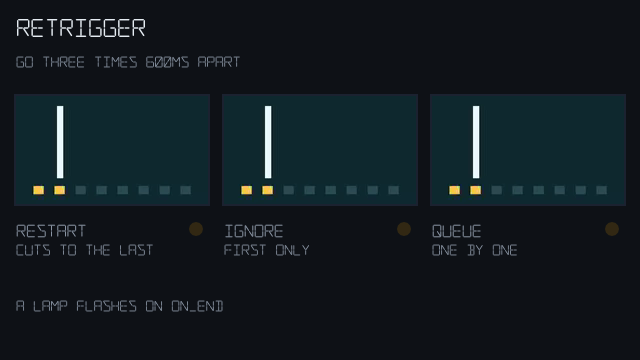
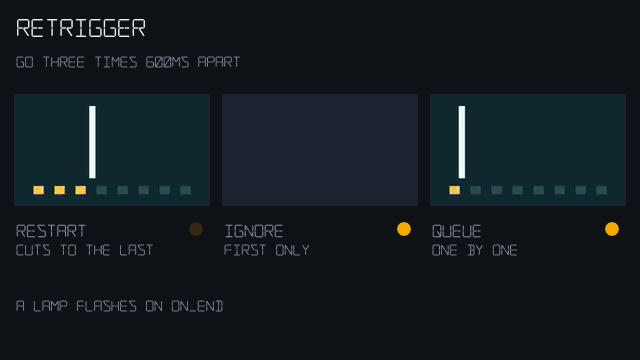
features: one clip, many plays
One clip playing on four layers at once, each started 300 ms after the
one before, so every layer shows its own point in the clip. Needs
cuelight main with a video frame per layer.

The retrigger example's thumbnail moves to 2.3 s, where its three
policies look different.

diff --git a/tools/feature_videos.py b/tools/feature_videos.py
@@ -40,7 +40,7 @@ ROOT = Path(__file__).resolve().parent.parent / "features/video"
 # Which examples use which clip; each example keeps its own copy, so a
 # folder plays on its own.
 USERS = {
-    "sweep": ["video_layer", "retrigger"],
+    "sweep": ["video_layer", "retrigger", "one_clip_many_plays"],
     "orbit": ["video_layer", "masked"],
     "pop_c": ["video_layer", "pick"],
     "pop_e": ["pick"],

diff --git a/features/README.md b/features/README.md
@@ -18,6 +18,7 @@ cargo run -p cuelight-player -- ../cuelight-examples/features/timelines/easing
 | [timelines](timelines/) | `easing`, `delay_repeat_loop`, `on_end`, `trigger_lists`, `precedence`, `hold`, `values` |
 | [scenes](scenes/) | `scenes` |
 | [sound](sound/) | `audio_layers`, `pick`, `rest`, `ducking`, `bound_sound` |
+| [video](video/) | `video_layer`, `retrigger`, `pick`, `masked`, `one_clip_many_plays` |
 | [output](output/) | `modes`, `scaling`, `dots`, `overflow` |
 | [events](events/) | `show_events` |
 
